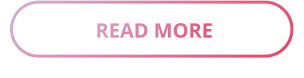
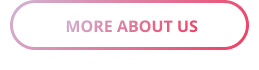
footer

Changed region(s): [[0.0309, 0.0, 0.9884, 0.7429], [0.2471, 0.2857, 0.7722, 0.4857]]

diff --git a/5cc9c2f4e0becab92b6f851032e11261c3f58848/index.html b/5cc9c2f4e0becab92b6f851032e11261c3f58848/index.html
@@ -81,7 +81,7 @@
         <div class="hp-process-card">
           <img src="images/homepage/3-process-icon1.png" alt="" class="image-3">
           <div class="card-title">Research Phase</div>
-          <div class="normal-text homepate-text">Our subject and generative research focused on understanding the financial sphere and the complexity of trader’s lives, particularly in institutional trading.</div>
+          <div class="normal-text process-card-text">Our subject and generative research focused on understanding the financial sphere and the complexity of trader’s lives, particularly in institutional trading.</div>
           <a href="research.html" target="_blank" class="button-solid button-red w-button">Read More</a>
         </div>
       </div>
@@ -89,7 +89,7 @@
         <div class="hp-process-card">
           <img src="images/homepage/3-process-icon2.png" alt="" class="image-3 bulb">
           <div class="card-title blue-text">Conceptual Phase</div>
-          <div class="normal-text">After conducting a variety of research activities and synthesizing findings, the team defined opportunity areas and began creating design concepts.</div>
+          <div class="normal-text process-card-text">After conducting a variety of research activities and synthesizing findings, the team defined opportunity areas and began creating design concepts.</div>
           <a href="concept.html" target="_blank" class="button-solid button-blue w-button">Read More</a>
         </div>
       </div>
@@ -97,7 +97,7 @@
         <div class="hp-process-card">
           <img src="images/homepage/3-process-icon3.png" alt="" class="image-3">
           <div class="card-title purple-text">Design Phase</div>
-          <div class="normal-text">During the summer, our team will move into designing deliverables based upon our final presentation with our clients. This will be our focus for the summer.</div>
+          <div class="normal-text process-card-text">During the summer, our team will move into designing deliverables based upon our final presentation with our clients. This will be our focus for the summer.</div>
           <a data-aos="fade-up" href="coming-soon.html" class="button-solid button-purple w-button">Read More</a>
         </div>
       </div>
@@ -106,18 +106,18 @@
 </div>
 
 <!-- Our Team -->
-<div id="our-team" class="na-section homepage-section-wrapper bg-light-purple">
+<div id="our-team" class="na-section homepage-section-wrapper">
   <div class="div-centered-v">
     <div class="homepage-subtitle">GET TO KNOW</div>
     <div class="homepage-title">Our team</div>
     <div class="body-paragraph">We are a group of 5 Carnegie Mellon University students studying in the Master of Human-Computer Interaction program, which is under the School of Computer Science. To find out more about us and our client, go to About page.</div>
-    <a href="concept.html" target="_blank" class="button-solid red-border w-button">Read More</a>
+      <img src="images/homepage/4-team-button.png" alt="" id="our-team-button">
   </div>
 </div>
 
 <!-- Footer -->
 <footer id="footer" class="footnote w-clearfix">
-    <div class="footer_content_wrapper">
+    <div class="footer-wrapper">
         <p class="">Design and coded by </p>
         <img src="images/Utility/trufflin_logo.svg" alt="Trufflin Logo">
         <p class="">@ Copyright 2019</p>

diff --git a/5cc9c2f4e0becab92b6f851032e11261c3f58848/css/qians-first-project-5bbb7a.webflow.css b/5cc9c2f4e0becab92b6f851032e11261c3f58848/css/qians-first-project-5bbb7a.webflow.css
@@ -209,6 +209,25 @@
   align-items: flex-start;
 }
 
+.footer-wrapper{
+  display: flex;
+  width: 100%;
+  align-items: center;
+  justify-content: center;
+  margin: 0px;
+}
+
+.footer-wrapper img {
+  width: 130px;
+}
+
+.footer-wrapper p {
+  color: #969696;
+  font-size: 14px;
+  margin: 20px;
+}
+
+
 .div-centered-v.noedge {
   display: -webkit-box;
   display: -webkit-flex;
@@ -219,7 +238,7 @@
 }
 
 .homepage-subtitle {
-  margin-top: 30px;
+  margin-top: 50px;
   position: static;
   color: #969696;
   font-size: 12px;
@@ -298,6 +317,14 @@
   line-height: 22px;
   text-align: center;
   color: #333333;
+}
+
+/* out team*/
+
+#our-team-button{
+  width: 260px;
+  height: 70px;
+  margin-bottom: 50px;
 }
 
 .columns {
@@ -383,6 +410,8 @@
   background-color: #fff;
   box-shadow: 1px 1px 8px 0 #d9d9d9;
 }
+
+.hp.proced
 
 .image-2 {
   width: auto;
@@ -513,11 +542,11 @@
   float: none;
 }
 
-.normal-text.homepate-text {
-  -webkit-box-flex: 1;
-  -webkit-flex: 1;
-  -ms-flex: 1;
-  flex: 1;
+.normal-text.process-card-text{
+  font-size: 14px;
+  line-height: 170%;
+  color: #656565;
+  margin-bottom: 25px;
 }
 
 .img-banner {
@@ -1451,25 +1480,6 @@ html.w-mod-js *[data-ix="new-interaction"] {
   .div-centered-v.noedge {
     padding-right: 0%;
     padding-left: 0%;
-  }
-
-
-  .footer_content_wrapper {
-    position: relative;
-    left: 50%;
-    width: 600px;
-    display: inline-block;
-  }
-
-  .footer_content_wrapper img {
-    width: 130px;
-    display: inline;
-  }
-
-  .footer_content_wrapper p {
-    display: inline;
-    color: #969696;
-    font-size: 14px;
   }
 
   .section-title {
